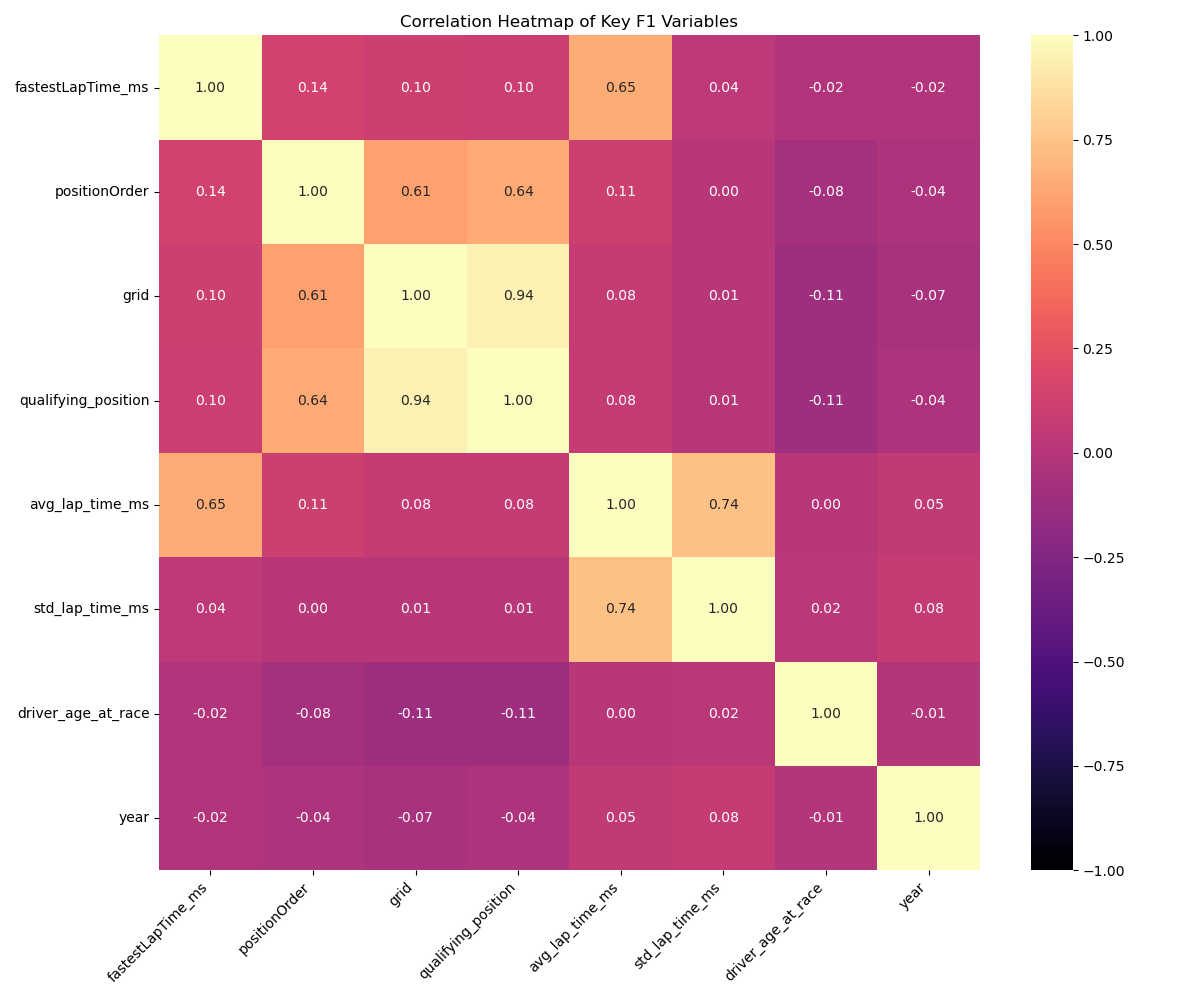
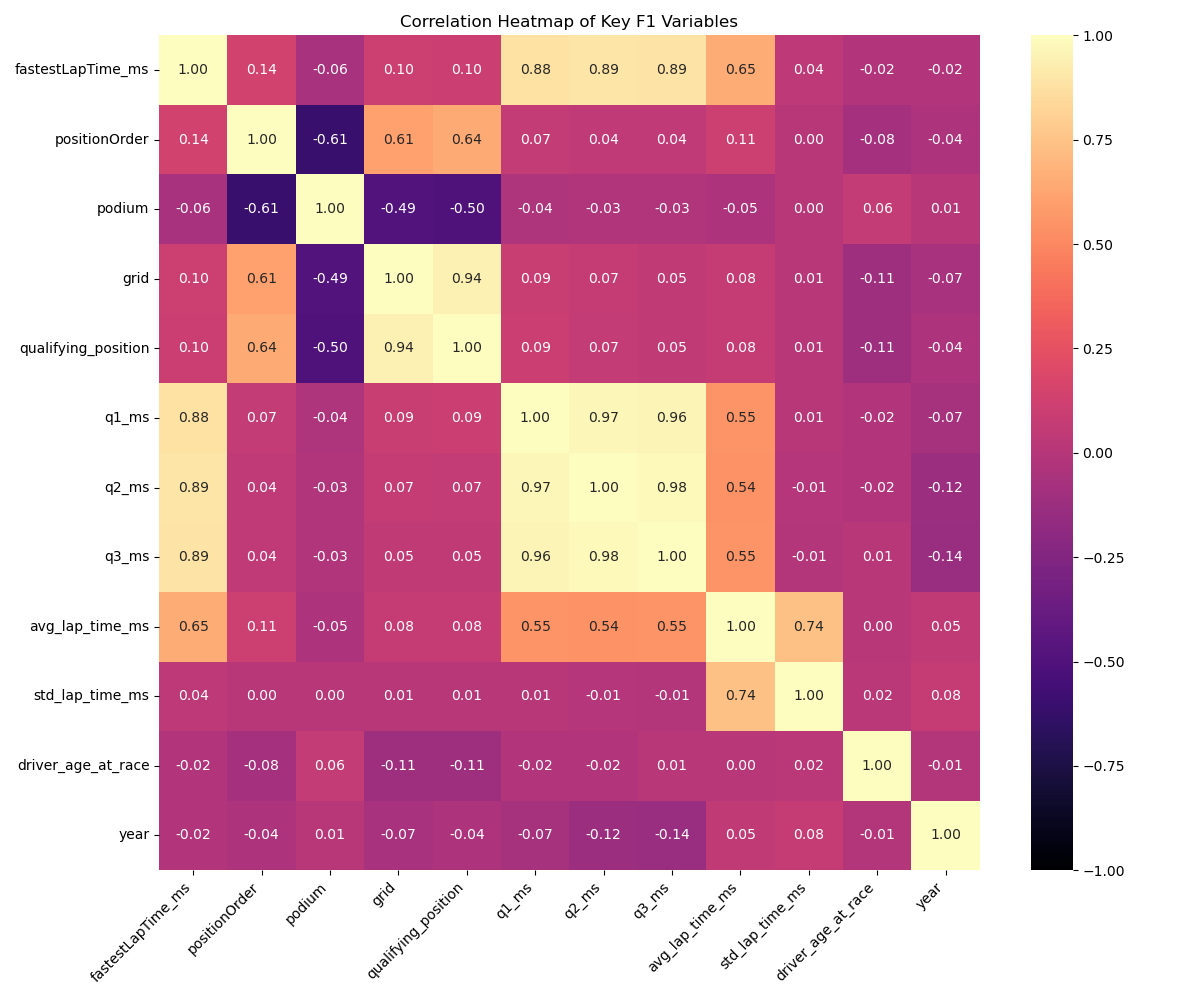
Added in step 4 comment and fixed heatmap vars

diff --git a/f1_script.py b/f1_script.py
@@ -96,7 +96,9 @@ df_lap_times['milliseconds'] = pd.to_numeric(df_lap_times['milliseconds'], error
 lap_stats = df_lap_times.groupby(['raceId', 'driverId'])['milliseconds'].agg(['mean', 'std']).reset_index()
 lap_stats = lap_stats.rename(columns={'mean': 'avg_lap_time_ms', 'std': 'std_lap_time_ms'})
 
-# Merging all relevant DataFrames
+# =========================================================================
+# Step 4: Merging DataFrames
+# =========================================================================
 print("Merging DataFrames...")
 master_f1 = pd.merge(df_results, df_races_short, on='raceId', how='left')
 master_f1 = pd.merge(master_f1, df_quali_short, on=['raceId', 'driverId', 'constructorId'], how='left')
@@ -147,7 +149,12 @@ print(desc_stats.to_markdown(floatfmt=".2f"))
 
 # Correlation Heatmap
 print("Generating correlation heatmap...")
-num_cols_for_corr = ['fastestLapTime_ms', 'positionOrder', 'grid', 'qualifying_position', 'avg_lap_time_ms', 'std_lap_time_ms', 'driver_age_at_race', 'year']
+num_cols_for_corr = [
+    'fastestLapTime_ms', 'positionOrder', 'podium', 'grid', 
+    'qualifying_position', 'q1_ms', 'q2_ms', 'q3_ms', 
+    'avg_lap_time_ms', 'std_lap_time_ms', 
+    'driver_age_at_race', 'year'
+]
 corr_matrix = final_df[num_cols_for_corr].corr()
 
 plt.figure(figsize=(12, 10))
@@ -159,6 +166,7 @@ plt.tight_layout()
 plt.savefig('f1_correlation_heatmap.png')
 
 print("\n'f1_correlation_heatmap.png' is saved.")
+
 
 # =========================================================================
 # Step 7: Pre-Modeling Data Preparation